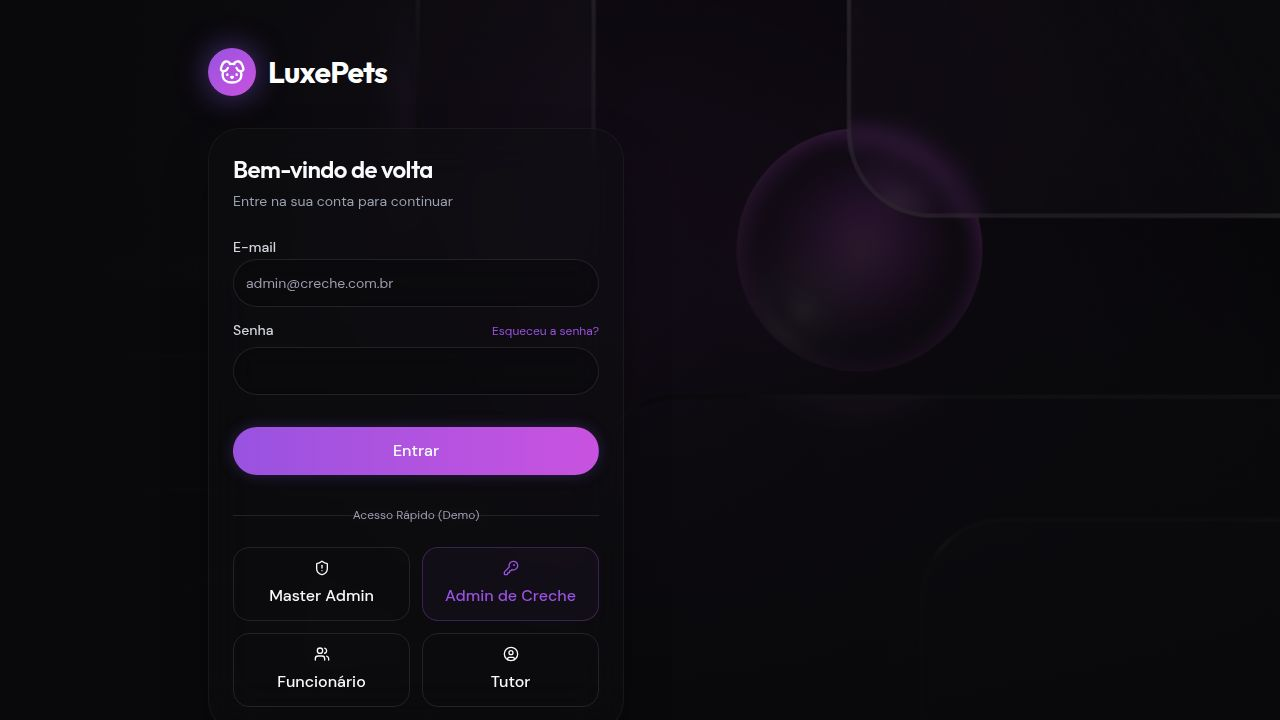
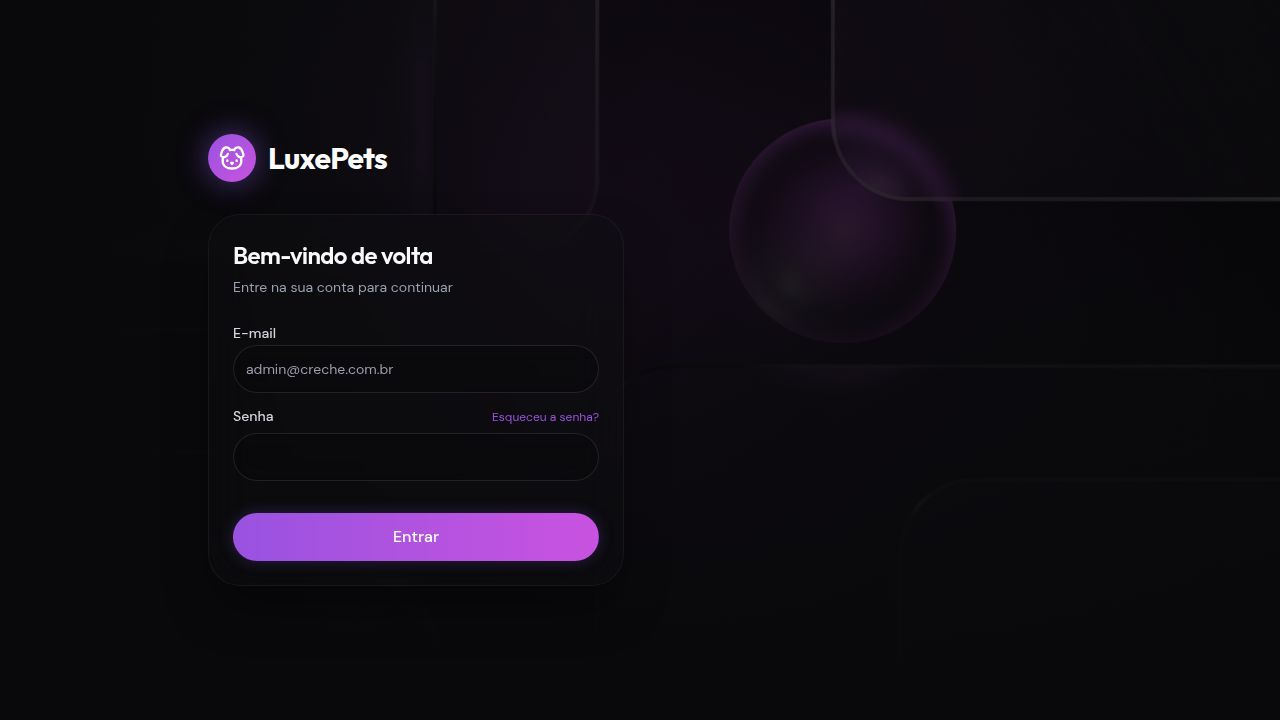
Improve user experience by refining layouts and adding key features
Removes the demo login section, enhances chat responsiveness on mobile, makes pet QR codes always accessible, and optimizes the users table for various screen sizes.

Replit-Commit-Author: Agent
Replit-Commit-Session-Id: 9e2bf595-ae0d-4c8f-9415-a99dc63ee1e3
Replit-Commit-Checkpoint-Type: full_checkpoint
Replit-Commit-Event-Id: 934b4421-c2a7-46c0-8c0f-3eddb3811e7a
Replit-Commit-Screenshot-Url: https://storage.googleapis.com/screenshot-production-us-central1/960cfa74-1a9e-4983-8cab-7f63b147dad4/9e2bf595-ae0d-4c8f-9415-a99dc63ee1e3/Nani8Ht
Replit-Helium-Checkpoint-Created: true

diff --git a/artifacts/petdaycare/src/pages/chat/index.tsx b/artifacts/petdaycare/src/pages/chat/index.tsx
@@ -5,7 +5,7 @@ import { Card, CardContent } from "@/components/ui/card";
 import { Button } from "@/components/ui/button";
 import { Input } from "@/components/ui/input";
 import { EmptyState } from "@/components/ui/empty-state";
-import { Send, MessageSquare, Dog } from "lucide-react";
+import { Send, MessageSquare, Dog, ChevronDown } from "lucide-react";
 import { format } from "date-fns";
 import { ptBR } from "date-fns/locale";
 import { useQueryClient } from "@tanstack/react-query";
@@ -40,20 +40,62 @@ export default function Chat() {
     );
   };
 
+  const selectedPetName = pets?.find((p) => p.id === selectedPetId)?.name;
+
   return (
-    <div className="space-y-6 animate-in fade-in slide-in-from-bottom-4 duration-500 h-[calc(100vh-12rem)] flex flex-col">
-      <div>
-        <h1 className="text-3xl font-display font-bold text-white">Mensagens</h1>
-        <p className="text-muted-foreground mt-1">Converse com a equipe da creche sobre seus pets.</p>
+    <div className="flex flex-col h-[calc(100vh-8rem)] md:h-[calc(100vh-10rem)] animate-in fade-in slide-in-from-bottom-4 duration-500">
+      {/* Page title - compact on mobile */}
+      <div className="mb-3 flex-shrink-0">
+        <h1 className="text-2xl md:text-3xl font-display font-bold text-white">Mensagens</h1>
+        <p className="text-sm text-muted-foreground mt-0.5 hidden md:block">
+          Converse com a equipe da creche sobre seus pets.
+        </p>
       </div>
 
-      <div className="flex gap-6 flex-1 min-h-0">
-        <div className="w-56 flex-shrink-0 space-y-2">
-          <p className="text-xs font-semibold uppercase tracking-wider text-muted-foreground px-1 mb-3">Filtrar por Pet</p>
+      {/* Mobile: compact pet filter as horizontal scroll */}
+      {pets && pets.length > 0 && (
+        <div className="flex md:hidden gap-2 overflow-x-auto pb-2 flex-shrink-0 custom-scrollbar">
+          <button
+            onClick={() => setSelectedPetId(undefined)}
+            className={`flex-shrink-0 px-3 py-1.5 rounded-full text-xs font-medium transition-all ${
+              !selectedPetId
+                ? "bg-primary text-white shadow-[0_0_12px_rgba(139,92,246,0.4)]"
+                : "bg-white/10 text-muted-foreground"
+            }`}
+          >
+            Todos
+          </button>
+          {pets.map((pet) => (
+            <button
+              key={pet.id}
+              onClick={() => setSelectedPetId(pet.id)}
+              className={`flex-shrink-0 flex items-center gap-1.5 px-3 py-1.5 rounded-full text-xs font-medium transition-all ${
+                selectedPetId === pet.id
+                  ? "bg-primary text-white shadow-[0_0_12px_rgba(139,92,246,0.4)]"
+                  : "bg-white/10 text-muted-foreground"
+              }`}
+            >
+              <Dog className="h-3 w-3" />
+              {pet.name}
+            </button>
+          ))}
+        </div>
+      )}
+
+      {/* Main chat area */}
+      <div className="flex gap-4 flex-1 min-h-0">
+
+        {/* Desktop sidebar */}
+        <div className="hidden md:flex w-52 flex-shrink-0 flex-col gap-1">
+          <p className="text-xs font-semibold uppercase tracking-wider text-muted-foreground px-1 mb-2">
+            Filtrar por Pet
+          </p>
           <button
             onClick={() => setSelectedPetId(undefined)}
             className={`w-full text-left px-3 py-2.5 rounded-xl text-sm font-medium transition-all ${
-              !selectedPetId ? "bg-primary/20 text-primary border border-primary/20" : "text-muted-foreground hover:bg-white/5 hover:text-white"
+              !selectedPetId
+                ? "bg-primary/20 text-primary border border-primary/20"
+                : "text-muted-foreground hover:bg-white/5 hover:text-white"
             }`}
           >
             Todas as Conversas
@@ -63,7 +105,9 @@ export default function Chat() {
               key={pet.id}
               onClick={() => setSelectedPetId(pet.id)}
               className={`w-full text-left px-3 py-2.5 rounded-xl text-sm font-medium flex items-center gap-2 transition-all ${
-                selectedPetId === pet.id ? "bg-primary/20 text-primary border border-primary/20" : "text-muted-foreground hover:bg-white/5 hover:text-white"
+                selectedPetId === pet.id
+                  ? "bg-primary/20 text-primary border border-primary/20"
+                  : "text-muted-foreground hover:bg-white/5 hover:text-white"
               }`}
             >
               <Dog className="h-4 w-4 flex-shrink-0" />
@@ -72,22 +116,45 @@ export default function Chat() {
           ))}
         </div>
 
-        <Card className="flex-1 flex flex-col min-h-0">
-          <CardContent className="p-0 flex flex-col h-full">
-            <div className="flex-1 overflow-y-auto custom-scrollbar p-6 space-y-4 min-h-0">
+        {/* Messages panel */}
+        <Card className="flex-1 flex flex-col min-h-0 overflow-hidden">
+          {/* Chat header (mobile only) */}
+          <div className="md:hidden px-4 py-2 border-b border-white/10 flex-shrink-0">
+            <p className="text-xs text-muted-foreground">
+              {selectedPetName ? (
+                <span className="text-primary font-medium flex items-center gap-1">
+                  <Dog className="h-3 w-3" /> {selectedPetName}
+                </span>
+              ) : (
+                "Todas as conversas"
+              )}
+            </p>
+          </div>
+
+          <CardContent className="p-0 flex flex-col h-full min-h-0">
+            {/* Messages list */}
+            <div className="flex-1 overflow-y-auto custom-scrollbar p-4 md:p-6 space-y-3 min-h-0">
               {isLoading ? (
-                <div className="text-center py-8 text-muted-foreground">Carregando mensagens...</div>
+                <div className="text-center py-8 text-muted-foreground text-sm">
+                  Carregando mensagens...
+                </div>
               ) : messages?.length ? (
                 <>
                   {messages.map((msg) => {
                     const isOwn = msg.senderId === user?.id;
                     return (
-                      <div key={msg.id} className={`flex flex-col gap-1 ${isOwn ? "items-end" : "items-start"}`}>
+                      <div
+                        key={msg.id}
+                        className={`flex flex-col gap-0.5 ${isOwn ? "items-end" : "items-start"}`}
+                      >
                         <p className="text-xs text-muted-foreground px-1">
-                          {msg.senderName} {msg.petName && <span className="text-primary">• {msg.petName}</span>}
+                          {msg.senderName}
+                          {msg.petName && (
+                            <span className="text-primary"> • {msg.petName}</span>
+                          )}
                         </p>
                         <div
-                          className={`max-w-md px-4 py-3 rounded-2xl text-sm leading-relaxed ${
+                          className={`max-w-[80%] md:max-w-md px-4 py-2.5 rounded-2xl text-sm leading-relaxed ${
                             isOwn
                               ? "bg-primary text-white rounded-br-md shadow-[0_0_20px_rgba(139,92,246,0.3)]"
                               : "bg-white/10 text-white rounded-bl-md border border-white/10"
@@ -112,26 +179,41 @@ export default function Chat() {
               )}
             </div>
 
-            <form onSubmit={handleSend} className="p-4 border-t border-white/10 flex gap-3">
+            {/* Message input */}
+            <form
+              onSubmit={handleSend}
+              className="p-3 md:p-4 border-t border-white/10 flex gap-2 flex-shrink-0"
+            >
               {pets && pets.length > 0 && (
-                <select
-                  value={selectedPetId || ""}
-                  onChange={(e) => setSelectedPetId(e.target.value ? Number(e.target.value) : undefined)}
-                  className="h-12 rounded-xl border border-white/10 bg-black/20 px-3 text-sm text-white focus:outline-none focus:ring-2 focus:ring-primary backdrop-blur-md flex-shrink-0 w-32"
-                >
-                  <option value="">Geral</option>
-                  {pets.map((p) => (
-                    <option key={p.id} value={p.id}>{p.name}</option>
-                  ))}
-                </select>
+                <div className="relative hidden md:block flex-shrink-0">
+                  <select
+                    value={selectedPetId || ""}
+                    onChange={(e) =>
+                      setSelectedPetId(e.target.value ? Number(e.target.value) : undefined)
+                    }
+                    className="h-11 rounded-xl border border-white/10 bg-black/20 pl-3 pr-8 text-sm text-white focus:outline-none focus:ring-2 focus:ring-primary backdrop-blur-md appearance-none w-32"
+                  >
+                    <option value="">Geral</option>
+                    {pets.map((p) => (
+                      <option key={p.id} value={p.id}>
+                        {p.name}
+                      </option>
+                    ))}
+                  </select>
+                  <ChevronDown className="pointer-events-none absolute right-2 top-1/2 -translate-y-1/2 h-4 w-4 text-muted-foreground" />
+                </div>
               )}
               <Input
                 value={message}
                 onChange={(e) => setMessage(e.target.value)}
                 placeholder="Digite sua mensagem..."
-                className="flex-1"
+                className="flex-1 h-11"
               />
-              <Button type="submit" isLoading={sendMutation.isPending} className="px-5">
+              <Button
+                type="submit"
+                isLoading={sendMutation.isPending}
+                className="h-11 px-4 flex-shrink-0"
+              >
                 <Send className="h-4 w-4" />
               </Button>
             </form>

diff --git a/artifacts/petdaycare/src/pages/admin/users.tsx b/artifacts/petdaycare/src/pages/admin/users.tsx
@@ -239,37 +239,46 @@ export default function AdminUsers() {
               <table className="w-full text-sm text-left">
                 <thead className="text-xs text-muted-foreground uppercase bg-white/5">
                   <tr>
-                    <th className="px-6 py-4 font-medium">Usuário</th>
-                    <th className="px-6 py-4 font-medium">Papel</th>
-                    {isMaster && <th className="px-6 py-4 font-medium">Creche</th>}
-                    <th className="px-6 py-4 font-medium">Status</th>
-                    <th className="px-6 py-4 font-medium">Cadastro</th>
-                    <th className="px-6 py-4 font-medium text-right">Ações</th>
+                    <th className="px-4 md:px-6 py-4 font-medium">Usuário</th>
+                    <th className="px-4 md:px-6 py-4 font-medium">Papel</th>
+                    {isMaster && <th className="hidden lg:table-cell px-6 py-4 font-medium">Creche</th>}
+                    <th className="hidden sm:table-cell px-4 md:px-6 py-4 font-medium">Status</th>
+                    <th className="hidden md:table-cell px-6 py-4 font-medium">Cadastro</th>
+                    <th className="px-4 md:px-6 py-4 font-medium text-right">Ações</th>
                   </tr>
                 </thead>
                 <tbody className="divide-y divide-white/5">
                   {filtered.map((u) => (
                     <tr key={u.id} className={`hover:bg-white/5 transition-colors ${!u.isActive ? "opacity-50" : ""}`}>
-                      <td className="px-6 py-4">
+                      <td className="px-4 md:px-6 py-4">
                         <div className="flex items-center gap-3">
-                          <div className="h-9 w-9 rounded-full bg-gradient-to-br from-primary/40 to-accent/40 flex items-center justify-center text-white font-bold flex-shrink-0">
+                          <div className="h-8 w-8 md:h-9 md:w-9 rounded-full bg-gradient-to-br from-primary/40 to-accent/40 flex items-center justify-center text-white font-bold flex-shrink-0 text-sm">
                             {u.name.charAt(0).toUpperCase()}
                           </div>
-                          <div>
-                            <p className="font-medium text-white">{u.name}</p>
-                            <p className="text-xs text-muted-foreground flex items-center gap-1">
-                              <Mail className="h-3 w-3" />{u.email}
+                          <div className="min-w-0">
+                            <p className="font-medium text-white truncate max-w-[120px] md:max-w-none">{u.name}</p>
+                            <p className="text-xs text-muted-foreground truncate max-w-[120px] md:max-w-none hidden sm:flex items-center gap-1">
+                              <Mail className="h-3 w-3 flex-shrink-0" />{u.email}
                             </p>
+                            {/* Mobile: show role + status inline */}
+                            <div className="flex items-center gap-1.5 sm:hidden mt-0.5">
+                              <span className={`text-[10px] font-medium px-1.5 py-0.5 rounded border ${roleColors[u.role] || ""}`}>
+                                {ROLE_LABELS[u.role] || u.role}
+                              </span>
+                              <Badge variant={u.isActive ? "success" : "secondary"} className="text-[10px] py-0 px-1.5">
+                                {u.isActive ? "Ativo" : "Inativo"}
+                              </Badge>
+                            </div>
                           </div>
                         </div>
                       </td>
-                      <td className="px-6 py-4">
+                      <td className="hidden sm:table-cell px-4 md:px-6 py-4">
                         <span className={`text-xs font-medium px-2.5 py-1 rounded-lg border ${roleColors[u.role] || ""}`}>
                           {ROLE_LABELS[u.role] || u.role}
                         </span>
                       </td>
                       {isMaster && (
-                        <td className="px-6 py-4 text-muted-foreground">
+                        <td className="hidden lg:table-cell px-6 py-4 text-muted-foreground">
                           {u.crecheId ? (
                             <span className="flex items-center gap-1.5 text-sm">
                               <Building2 className="h-3.5 w-3.5" />
@@ -280,33 +289,34 @@ export default function AdminUsers() {
                           )}
                         </td>
                       )}
-                      <td className="px-6 py-4">
-                        <div className="flex items-center gap-2">
+                      <td className="hidden sm:table-cell px-4 md:px-6 py-4">
+                        <div className="flex flex-col gap-1">
                           <Badge variant={u.isActive ? "success" : "secondary"}>
                             {u.isActive ? "Ativo" : "Inativo"}
                           </Badge>
                           {(u as any).mustChangePassword && (
                             <Badge className="bg-amber-500/20 text-amber-300 border-amber-500/30 text-xs">
-                              <AlertCircle className="h-3 w-3 mr-1" /> Senha provisória
+                              <AlertCircle className="h-3 w-3 mr-1" /> Provisória
                             </Badge>
                           )}
                         </div>
                       </td>
-                      <td className="px-6 py-4 text-muted-foreground text-xs">
+                      <td className="hidden md:table-cell px-6 py-4 text-muted-foreground text-xs">
                         {format(new Date(u.createdAt), "dd/MM/yyyy")}
                       </td>
-                      <td className="px-6 py-4">
-                        <div className="flex items-center justify-end gap-2">
-                          <Button size="sm" variant="ghost" onClick={() => handleOpenEdit(u)}>
-                            <Pencil className="h-3.5 w-3.5 mr-1" /> Editar
+                      <td className="px-4 md:px-6 py-4">
+                        <div className="flex items-center justify-end gap-1.5">
+                          <Button size="sm" variant="ghost" className="px-2 md:px-3" onClick={() => handleOpenEdit(u)}>
+                            <Pencil className="h-3.5 w-3.5" />
+                            <span className="hidden md:inline ml-1">Editar</span>
                           </Button>
                           {currentUser?.id !== u.id && (
                             <Button
                               size="sm"
                               variant="outline"
                               className={u.isActive
-                                ? "border-red-500/30 text-red-400 hover:bg-red-500/10"
-                                : "border-emerald-500/30 text-emerald-400 hover:bg-emerald-500/10"
+                                ? "border-red-500/30 text-red-400 hover:bg-red-500/10 px-2 md:px-3"
+                                : "border-emerald-500/30 text-emerald-400 hover:bg-emerald-500/10 px-2 md:px-3"
                               }
                               onClick={() => handleToggleActive(u)}
                               isLoading={updateMutation.isPending}

diff --git a/artifacts/petdaycare/src/pages/login.tsx b/artifacts/petdaycare/src/pages/login.tsx
@@ -4,7 +4,7 @@ import { Card, CardContent, CardDescription, CardHeader, CardTitle } from "@/com
 import { Button } from "@/components/ui/button";
 import { Input } from "@/components/ui/input";
 import { Label } from "@/components/ui/label";
-import { Dog, ShieldAlert, KeyRound, Users, UserCircle } from "lucide-react";
+import { Dog } from "lucide-react";
 
 export default function Login() {
   const { login } = useAuth();
@@ -16,14 +16,6 @@ export default function Login() {
     if (e) e.preventDefault();
     setIsSubmitting(true);
     login({ data: { email, password } });
-    setTimeout(() => setIsSubmitting(false), 1000);
-  };
-
-  const handleDemo = (roleEmail: string) => {
-    setEmail(roleEmail);
-    setPassword("password");
-    setIsSubmitting(true);
-    login({ data: { email: roleEmail, password: "password" } });
     setTimeout(() => setIsSubmitting(false), 1000);
   };
 
@@ -82,32 +74,6 @@ export default function Login() {
                 Entrar
               </Button>
             </form>
-
-            <div className="mt-8">
-              <div className="relative">
-                <div className="absolute inset-0 flex items-center">
-                  <div className="w-full border-t border-white/10"></div>
-                </div>
-                <div className="relative flex justify-center text-xs">
-                  <span className="bg-transparent px-2 text-muted-foreground backdrop-blur-sm">Acesso Rápido (Demo)</span>
-                </div>
-              </div>
-
-              <div className="grid grid-cols-2 gap-3 mt-6">
-                <Button variant="outline" onClick={() => handleDemo('master@petdaycare.com')} className="h-auto py-3 flex flex-col gap-1 items-center justify-center">
-                  <ShieldAlert className="h-4 w-4 mb-1" /> Master Admin
-                </Button>
-                <Button variant="outline" onClick={() => handleDemo('ana@petparadise.com.br')} className="h-auto py-3 flex flex-col gap-1 items-center justify-center text-primary border-primary/30 bg-primary/5">
-                  <KeyRound className="h-4 w-4 mb-1" /> Admin de Creche
-                </Button>
-                <Button variant="outline" onClick={() => handleDemo('bruno@petparadise.com.br')} className="h-auto py-3 flex flex-col gap-1 items-center justify-center">
-                  <Users className="h-4 w-4 mb-1" /> Funcionário
-                </Button>
-                <Button variant="outline" onClick={() => handleDemo('tutor@petparadise.com.br')} className="h-auto py-3 flex flex-col gap-1 items-center justify-center">
-                  <UserCircle className="h-4 w-4 mb-1" /> Tutor
-                </Button>
-              </div>
-            </div>
           </CardContent>
         </Card>
       </div>

diff --git a/artifacts/petdaycare/src/pages/pets/detail.tsx b/artifacts/petdaycare/src/pages/pets/detail.tsx
@@ -35,6 +35,7 @@ export default function PetDetail({ id }: { id: number }) {
   const updatePetMutation = useUpdatePet();
 
   const [editOpen, setEditOpen] = useState(false);
+  const [qrModalOpen, setQrModalOpen] = useState(false);
 
   const handleEditProfile = (e: React.FormEvent<HTMLFormElement>) => {
     e.preventDefault();
@@ -115,6 +116,9 @@ export default function PetDetail({ id }: { id: number }) {
         </div>
 
         <div className="flex gap-3 z-10 w-full md:w-auto flex-wrap justify-center md:justify-end">
+          <Button variant="glass" size="sm" onClick={() => setQrModalOpen(true)} className="gap-2">
+            <QrCode className="h-4 w-4" /> QR Code
+          </Button>
           <Button variant="glass" onClick={() => setEditOpen(true)}>
             Editar Perfil
           </Button>
@@ -123,6 +127,11 @@ export default function PetDetail({ id }: { id: number }) {
           )}
         </div>
       </div>
+
+      {/* QR Code Modal */}
+      <Modal isOpen={qrModalOpen} onClose={() => setQrModalOpen(false)} title={`QR Code — ${pet.name}`}>
+        <QrTab pet={pet} />
+      </Modal>
 
       {/* Edit Modal */}
       <Modal isOpen={editOpen} onClose={() => setEditOpen(false)} title="Editar Perfil do Pet">
